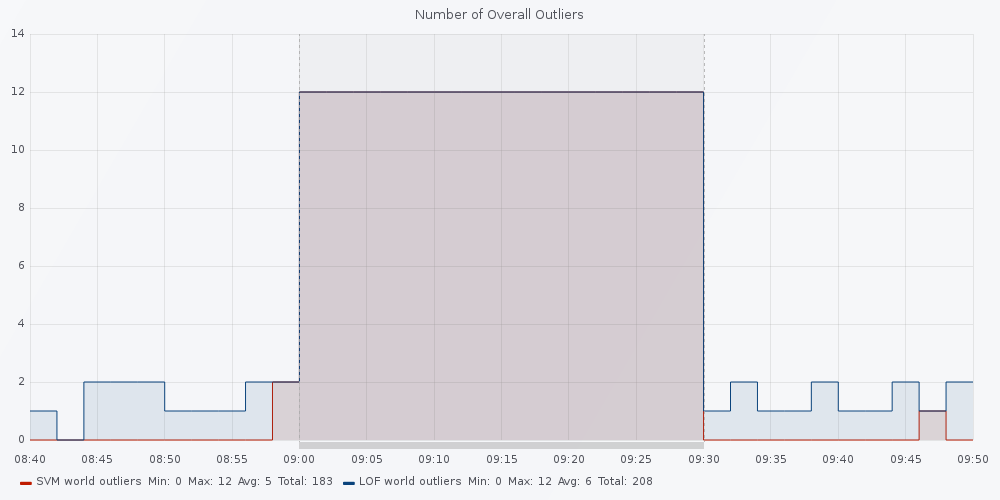
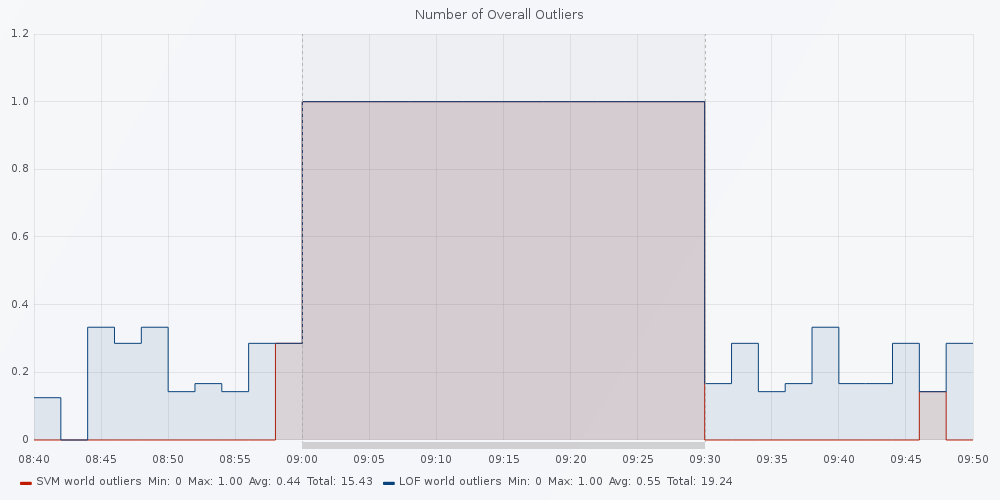
added visualisation appendix and interpretion of unusual behaviouunusual behaviourr
appendix for validation and test visualisation

diff --git a/tex/chapter/appendix.tex b/tex/chapter/appendix.tex
@@ -1,4 +1,4 @@
-% !TeX spellcheck = en_US
+% !TeX spellcheck = en_GB
 % ------------------------------------------------------------------------------
 % code highlighting
 % some nice styling for code listings
@@ -39,6 +39,109 @@
 }
 %
 % ------------------------------------------------------------------------------
+
+\chapter{Additional Visualisations of Anomaly-Detection Metrics}
+\chaptermark{Additional Visualisations}
+\label{app:metrics}
+\clearpage
+
+\section{Metrics During the Training Phase}
+\label{app:metrics:training}
+
+\begin{figure}[H]
+	\newcommand{\figwith}{0.49\textwidth}
+	\newcommand{\figprefix}{train}
+	\centering
+	
+	\begin{subfigure}[b]{\figwith}
+		\includegraphics[width=\textwidth]{figures/700-results/\figprefix-tc.png}
+		\caption{Telegrams (green) and telegrams with unknown addresses (yellow) over time}
+		\label{fig:results:\figprefix:tc}
+	\end{subfigure}
+	\hfil
+	\begin{subfigure}[b]{\figwith}
+		\includegraphics[width=\textwidth]{figures/700-results/\figprefix-unknown-addr.png}
+		\caption{Amount of observed unknown source (green) and destination (yellow) addresses}
+		\label{fig:results:\figprefix:addr}
+	\end{subfigure}
+	\\[1.5mm]
+	\begin{subfigure}[b]{\figwith}
+		\includegraphics[width=\textwidth]{figures/700-results/\figprefix-num-outliers.png}
+		\caption{Number of detected outliers via SVM (red) and LOF (blue).}
+		\label{fig:results:\figprefix:outlier}
+	\end{subfigure}
+	\hfil
+	\begin{subfigure}[b]{\figwith}
+		\includegraphics[width=\textwidth]{figures/700-results/\figprefix-entropy.png}
+		\caption{Calculated Entropy over time, infinity is encoded as $100 000$}
+		\label{fig:results:\figprefix:entropy}
+	\end{subfigure}
+	\\[1.5mm]
+	\begin{subfigure}[b]{\figwith}
+		\includegraphics[width=\textwidth]{figures/700-results/\figprefix-lof-spread.png}
+		\caption{Spread and average of the Local Outlier Factor, smaller numbers indicate outlier}
+		\label{fig:results:\figprefix:lof}
+	\end{subfigure}
+	\hfil
+	\begin{subfigure}[b]{\figwith}
+		\includegraphics[width=\textwidth]{figures/700-results/\figprefix-svm-spread.png}
+		\caption{Spread and average of the distance to decision surface, negative distances are outlier}
+		\label{fig:results:\figprefix:svm}
+	\end{subfigure}
+	
+	\caption[Detection Results During the Training Phase]{Detection Results During the Training Phase from 2017-01-21 00:00 to 2017-02-04 23:59 with a minimal time resolution of 1 hour.}
+	\label{fig:results:\figprefix}
+	
+\end{figure}
+
+\section{Metrics During the Validation Phase}
+\label{app:metrics:validation}
+
+\begin{figure}[H]
+	\newcommand{\figwith}{0.49\textwidth}
+	\newcommand{\figprefix}{validation}
+	\centering
+	
+	\begin{subfigure}[b]{\figwith}
+		\includegraphics[width=\textwidth]{figures/700-results/\figprefix-tc.png}
+		\caption{Telegrams (green) and telegrams with unknown addresses (yellow) over time}
+		\label{fig:results:\figprefix:tc}
+	\end{subfigure}
+	\hfil
+	\begin{subfigure}[b]{\figwith}
+		\includegraphics[width=\textwidth]{figures/700-results/\figprefix-unknown-addr.png}
+		\caption{Amount of observed unknown source (green) and destination (yellow) addresses}
+		\label{fig:results:\figprefix:addr}
+	\end{subfigure}
+	\\[1.5mm]
+	\begin{subfigure}[b]{\figwith}
+		\includegraphics[width=\textwidth]{figures/700-results/\figprefix-num-outliers.png}
+		\caption{Number of detected outliers via SVM (red) and LOF (blue).}
+		\label{fig:results:\figprefix:outlier}
+	\end{subfigure}
+	\hfil
+	\begin{subfigure}[b]{\figwith}
+		\includegraphics[width=\textwidth]{figures/700-results/\figprefix-entropy.png}
+		\caption{Calculated Entropy over time, infinity is encoded as $100 000$}
+		\label{fig:results:\figprefix:entropy}
+	\end{subfigure}
+	\\[1.5mm]
+	\begin{subfigure}[b]{\figwith}
+		\includegraphics[width=\textwidth]{figures/700-results/\figprefix-lof-spread.png}
+		\caption{Spread and average of the Local Outlier Factor, smaller numbers indicate outlier}
+		\label{fig:results:\figprefix:lof}
+	\end{subfigure}
+	\hfil
+	\begin{subfigure}[b]{\figwith}
+		\includegraphics[width=\textwidth]{figures/700-results/\figprefix-svm-spread.png}
+		\caption{Spread and average of the distance to decision surface, negative distances are outlier}
+		\label{fig:results:\figprefix:svm}
+	\end{subfigure}
+	
+	\caption[Detection Results During the Validation Phase]{Detection Results During the Validation Phase from 2017-02-04 00:00 to 2017-02-11 23:59 with a minimal time resolution of 1 hour.}
+	\label{fig:results:\figprefix}
+	
+\end{figure}
 
 \chapter{CD-ROM with Software and Data}
 \label{app:disk}

diff --git a/tex/chapter/700-results.tex b/tex/chapter/700-results.tex
@@ -51,8 +51,13 @@ Figure~\ref{fig:results:unusual} shows several metrics from the four different a
 In \ref{fig:results:unusual:tc} a sudden increase in the observed amounts of telegrams per window is to observe, whereby telegrams with using unknown addresses were observed. This is to be expected since the five hours which replaced the original traffic were taken from the same line but from a more busy point of the week, hence the increase of transmitted telegrams.
 The absence of unknown addresses, either as source or as destination, is also clearly indicated by Figure~\ref{fig:results:unusual:addr}.
 
+Surprisingly, there is also no significant increase in the number of detected outliers neither by the \gls{svm}, nor using the \gls{lof}, as shown in Figure~\ref{fig:results:unusual:outlier}.
+Even though the \gls{lof} shows an average of $0.77$ outliers, it can hardly be considered an significant increase when compared to the surrounding unmodified data and to the validation data set in Appendix~\ref{app:metrics:validation}.
+However, the spread of the Local Outlier Factor depicted in Figure~\ref{fig:results:unusual:lof} shows a small change downwards, which indicates less normal behaviour -- it is arguably not significant enough.
 
+In contrast, Figure~\ref{fig:results:unusual:svm} even shows that the distance to the decision function of the \gls{svm} even increases positively, which means the analysed points are considered to represent the normality stronger. This is also reflected in the detection of no outliers with the exception of two small peaks.
 
+The Entropy Analyser mostly calculates a entropy of infinity, which is here encoded as $100000$. This results is not limited to the period of the modification and therefore renders its results relatively meaningless.
 
 \begin{figure}[H]
 	\newcommand{\figwith}{0.49\textwidth}
